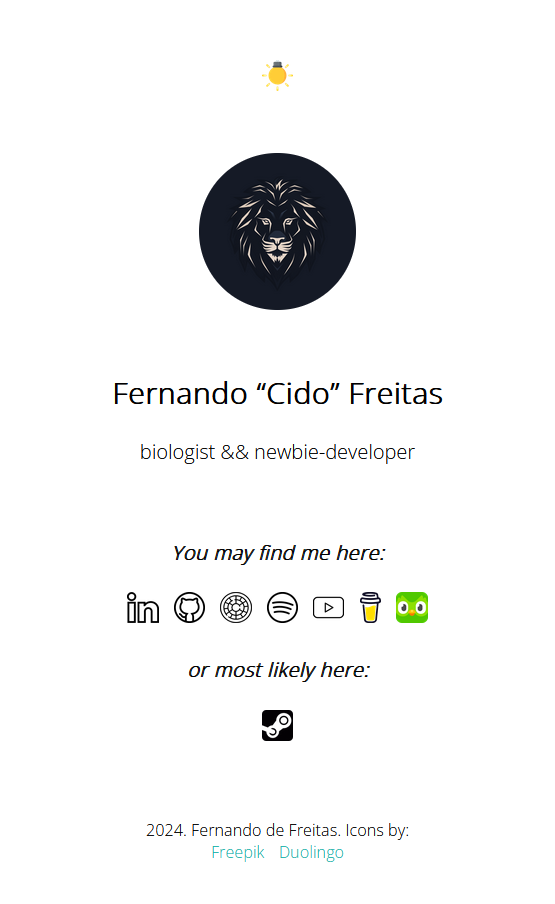
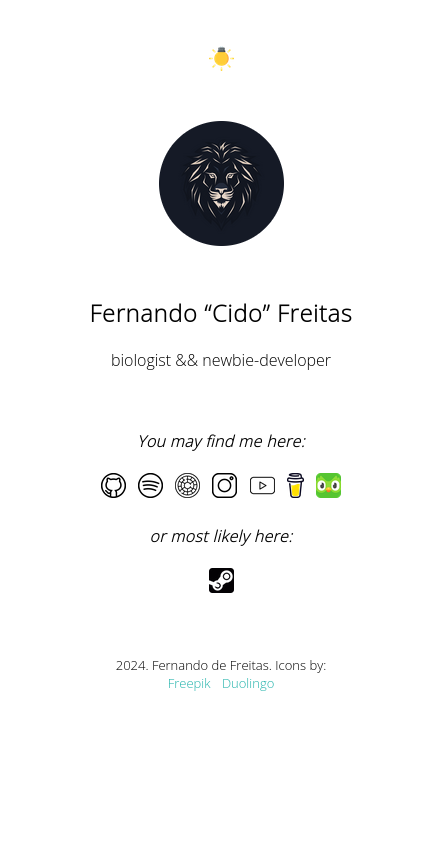
add insta; remove linkedin; clear js file; update screenshots.

diff --git a/scripts.js b/scripts.js
@@ -6,27 +6,25 @@ function darkMode() {
     
     if(light==0) {
       document.getElementById('img-lightbulb').src = "assets/img/lightbulb2.png";
-      //document.getElementById('img-location').src = "assets/img/location2.png";
-      document.getElementById('img-linkedin').src = "assets/img/linkedin2.png";
       document.getElementById('img-github').src = "assets/img/github2.png";
       document.getElementById('img-vsco').src = "assets/img/vsco2.png";
       document.getElementById('img-spotify').src = "assets/img/spotify2.png";
       document.getElementById('img-youtube').src = "assets/img/youtube2.png";
       document.getElementById('img-bmc').src = "assets/img/bmc2.png";
       document.getElementById('img-steam').src = "assets/img/steam2.png";
+      document.getElementById('img-insta').src = "assets/img/insta2.png";
       light = 1;
     }
     
     else if(light=1) {
       document.getElementById('img-lightbulb').src = "assets/img/lightbulb.png";
-      //document.getElementById('img-location').src = "assets/img/location.png";
-      document.getElementById('img-linkedin').src = "assets/img/linkedin.png";
       document.getElementById('img-github').src = "assets/img/github.png";
       document.getElementById('img-vsco').src = "assets/img/vsco.png";
       document.getElementById('img-spotify').src = "assets/img/spotify.png";
       document.getElementById('img-youtube').src = "assets/img/youtube.png";
       document.getElementById('img-bmc').src = "assets/img/bmc.png";
       document.getElementById('img-steam').src = "assets/img/steam.png";
+      document.getElementById('img-insta').src = "assets/img/insta.png";
       light = 0;
     }
 }

diff --git a/index.html b/index.html
@@ -49,17 +49,17 @@
 
                 <h4 id="find-me">You may find me here:</h4>
 
-                <a href="https://www.linkedin.com/in/fernando-cido-de-freitas" target="_blank">
-                    <img id="img-linkedin" src="assets/img/linkedin.png" alt="linkedin icon" height="25px">
-                </a>
                 <a href="https://github.com/fernandocido" target="_blank">
                     <img id="img-github" src="assets/img/github.png" alt="github icon" height="25px">
+                </a>
+                <a href="https://open.spotify.com/user/arthur_philip_dent?si=a4924a03d60447ee" target="_blank">
+                    <img id="img-spotify" src="assets/img/spotify.png" alt="spotify icon" height="25px">
                 </a>
                 <a href="https://vsco.co/fernandocido" target="_blank">
                     <img id="img-vsco" src="assets/img/vsco.png" alt="vsco icon" height="25px">
                 </a>
-                <a href="https://open.spotify.com/user/arthur_philip_dent?si=a4924a03d60447ee" target="_blank">
-                    <img id="img-spotify" src="assets/img/spotify.png" alt="spotify icon" height="25px">
+                <a href="https://instagram.com/horse_simulator" target="_blank">
+                    <img id="img-insta" src="assets/img/insta.png" alt="instagram icon" height="25px">
                 </a>
                 <a href="https://www.youtube.com/@fernandocidofreitas" target="_blank">
                     <img id="img-youtube" src="assets/img/youtube.png" alt="youtube icon" height="25px">
